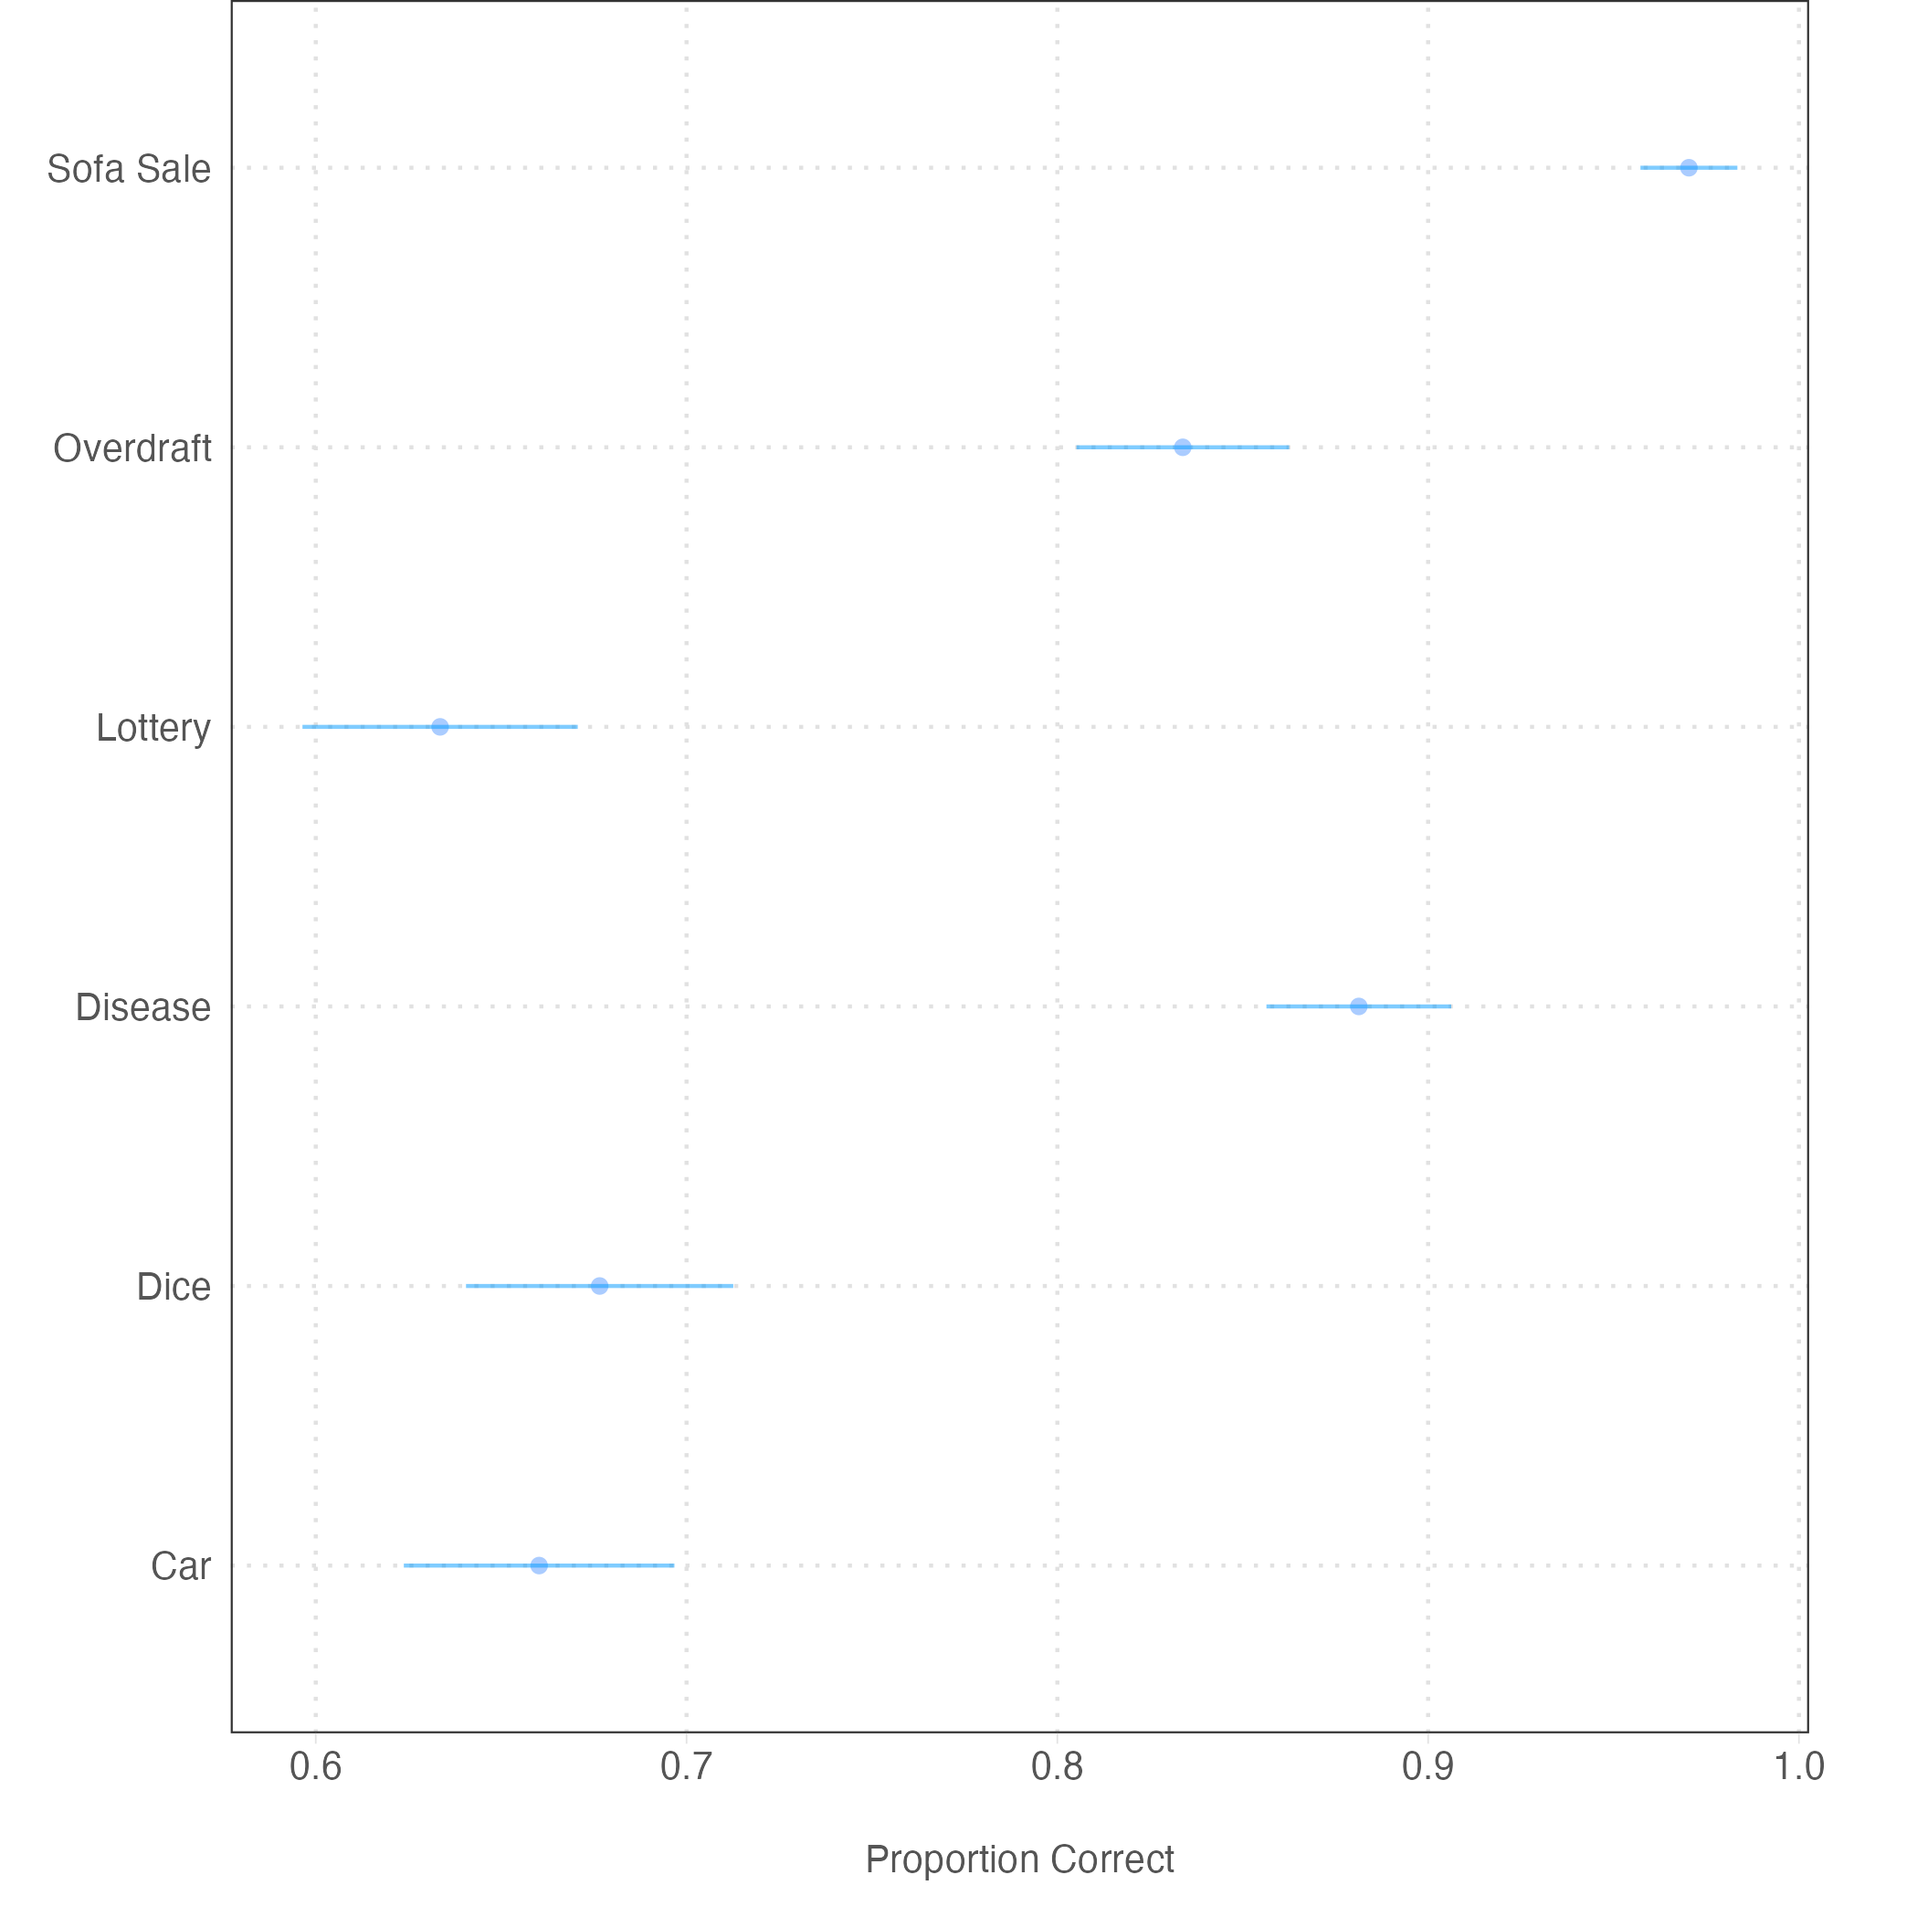
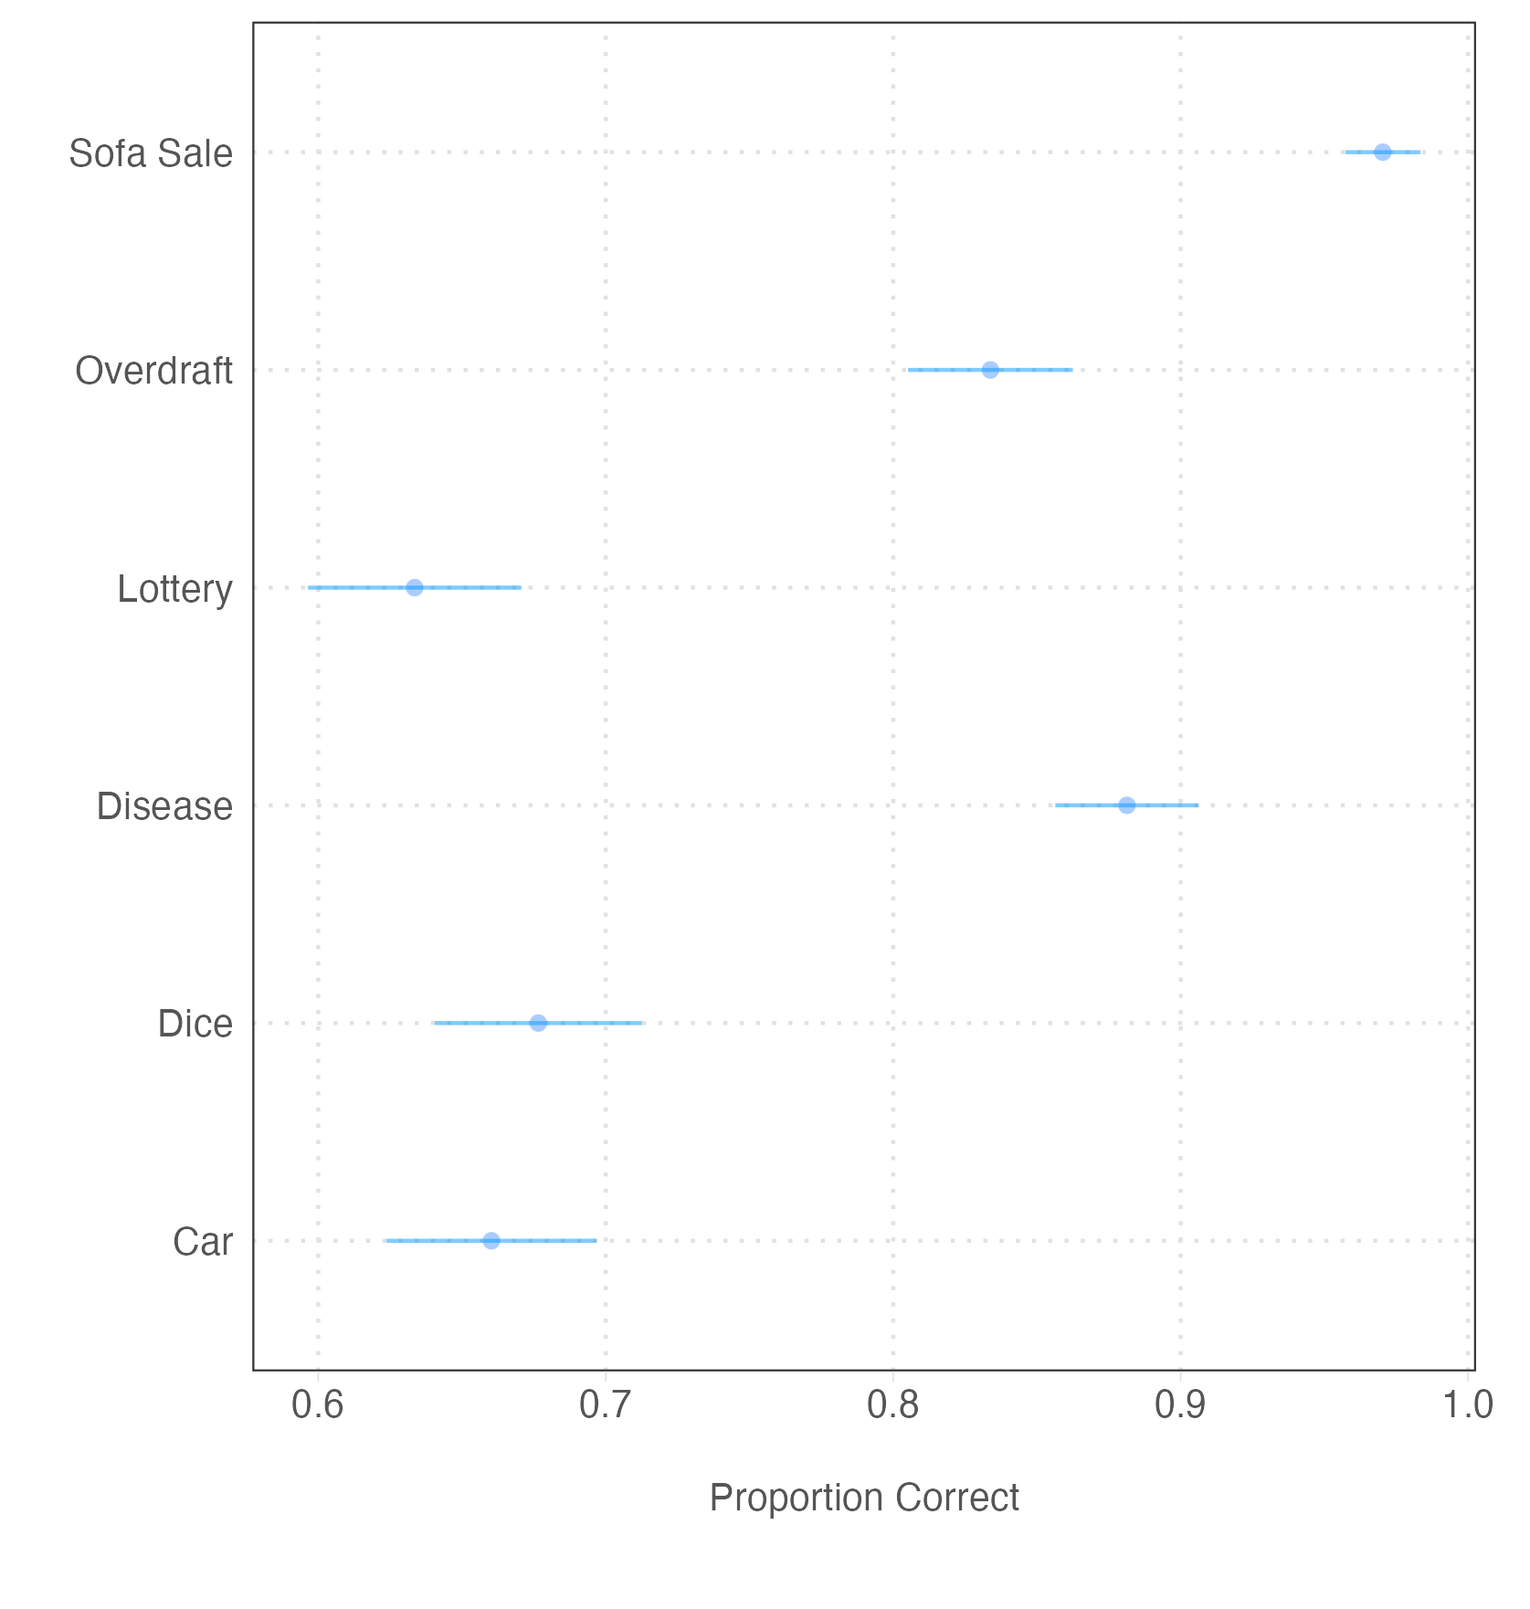
better presentation of lucid results

diff --git a/ms/main.tex b/ms/main.tex
@@ -9,12 +9,12 @@
 \PassOptionsToPackage{naturalnames}{hyperref}
 \usepackage[margin=1in]{geometry}
 \usepackage[linkcolor=blue,
-			colorlinks=true,
-			urlcolor=blue,
-			pdfstartview={XYZ null null 1.00},
-			pdfpagemode=UseNone,
-			citecolor={bluish},
-			pdftitle={social proof}]{hyperref}
+            colorlinks=true,
+            urlcolor=blue,
+            pdfstartview={XYZ null null 1.00},
+            pdfpagemode=UseNone,
+            citecolor={bluish},
+            pdftitle={social proof}]{hyperref}
 
 %\newcites{SI}{SI References}
 \usepackage{natbib}
@@ -106,23 +106,34 @@
 
 \thispagestyle{empty}
 \begin{abstract}
-\noindent In a seminal article in the Quarterly Journal of Economics, \cite{gneezy2006uncertainty} (GLW) report the discovery of the uncertainty effect. In a series of experiments, they find that people are averse to picking the uncertain option even when the certain choice is worse than the worst possible outcome of the uncertain option. We successfully replicate the main finding with two larger, more representative surveys. But our data also suggest three qualifiers: 1. Adding clarifying text about the worst case to the uncertain option closes the gap, 2. Numeracy strongly predicts who chooses the worse option, 3. Providing bonus flips the sign of the effect.
+\noindent In a seminal article in the \textit{Quarterly Journal of Economics}, \cite{gneezy2006uncertainty} (GLW) report the discovery of the uncertainty effect. In a series of experiments, they find that people are averse to picking the uncertain option even when the certain choice is worse than the worst possible outcome of the uncertain option. We successfully replicate the main finding with two larger, more representative surveys. But our data also suggest three qualifiers: 1. Adding clarifying text about the worst case to the uncertain option closes the gap, 2. Numeracy strongly predicts who chooses the worse option, 3. Providing bonus flips the sign of the effect.
 \end{abstract} 
 \clearpage
 \setcounter{page}{1}
 \doublespace
 
-\section*{Replication}
-\subsection*{Results}
+\section*{Experiment 1}
 
-Figure 1 presents the results. In the baseline condition, just 36.5\% of participants opt for the \$25 in cash over the \$50 Amazon gift card. Rationally, then, we should expect to see a smaller percentage taking the cash in the lottery conditions, as the lottery is worth more than \$50 in Amazon money. But we observe a different pattern. First, a full 61.5\% opt for the cash over the lottery in the ``original lottery'' condition—consistent with Gneezy, List, and Wu (2006), we find that the lottery worth \$75 in Amazon money, and guaranteed to pay out at least \$50 in Amazon money, is less popular than \$50 in Amazon money for sure. 
+Our experiment has four treatment arms. The first two replicate the treatment arms in one of the experiments in GLW. In the first condition, we asked respondents if they would prefer \$25 in cash or a \$50 Amazon gift card. We call it the \textbf{Certain Choice} condition. We compare this to a second \textbf{Uncertain Choice} condition in which respondents were asked whether they would prefer \$25 in cash or a lottery in which they had a 50\% chance of winning a \$50 Amazon gift card and a 50\% chance of winning a \$100 Amazon gift card. Since the expected value of this lottery is \$75 in Amazon money, the rational expectation is that more participants will take the Amazon money in this condition. However, \cite{gneezy2006uncertainty} suggest that people will take the cash at a higher rate in the lottery condition, apparently out of aversion to uncertainty.
+
+Our next two conditions probe alternate mechanisms. It is possible that the wording about the lottery is confusing, i.e., perhaps some participants believe the lottery is sequential, i.e., they first have a chance of winning \$50 and then a chance of winning \$100 and, thus, a chance of winning nothing at all. To preclude this reasoning, we introduced a third condition in which participants chose between \$25 in cash or the lottery in the second condition, but with a clarification attached to the lottery: ``To be clear, you are guaranteed to get at least a \$50 gift card.'' If participants are truly averse to uncertainty, we should see similar (and relatively small, compared to the baseline) proportions opting for the lottery in both the \textbf{Uncertain Choice} and \textbf{Clarifying Uncertain Choice} conditions. But if confusion about the lottery explains any of the irrational choices in the \textbf{Uncertain Choice} condition, we should see higher proportions opting for the lottery in the \textbf{Clarifying Uncertain Choice} condition.
+
+Lastly, based on the idea (spoken about by GLW) that comparison across units maybe what is an essential condition for the effect to hold, we offered a \textbf{Direct Comparison} condition that asked respondents to choose between a \$50 Amazon gift card and the regular lottery. Unlike other arms that offer a lottery, this experimental arm has a certain choice that is more commensurate to the second option in \textbf{Certain Choice} than the first. It also makes inference hard. It could be that fewer respondents choose the lottery because the trade-off is harder or it could be that more respondents choose the lottery as the comparison is clearer. Because of these inferential issues, we exclude this condition.
+
+Figure \ref{fig:exp_1_lucid} presents the results. In the \textbf{Certain Choice} condition, just 36.5\% of the participants opt for the \$25 in cash over the \$50 Amazon gift card. Rationally, then, we should expect to see a smaller percentage taking the cash in the lottery conditions, as the lottery is worth more than \$50 in Amazon money. But we observe a different pattern. First, a full 61.5\% opt for the cash over the lottery in the original \textbf{Uncertain Choice} condition. Consistent with \citet{gneezy2006uncertainty}, we find that the lottery worth \$75 in Amazon money, and guaranteed to pay out at least \$50 in Amazon money, is less popular than \$50 in Amazon money for sure.
+
+\begin{figure}[h]
+    \centering
+    \includegraphics{figs/lucid_exp.pdf}
+    \caption{Proportion Choosing Certain Choice in Each of the Treatment Conditions}
+    \label{fig:exp_1_lucid}
+\end{figure}
+
+As noted above, this could be due to confusion over how the lottery is described. Adding the ``clarification'' causes a dramatic drop in people choosing \$25 in cash. In the \textbf{Clarifying} condition, 44.7\% take the \$25 in cash. Thus, unclear wording surrounding the lottery may explain a significant portion of the uncertainty effect.
+
+\section*{Experiment 2}
 
 
-\section*{Numeracy}
-
-\section*{Bonus}
-
-\section*{Discussion}
 
 \clearpage
 \bibliographystyle{apsr}
@@ -164,12 +175,17 @@ The order of the response options was randomized.
 \subsection{Experimental Conditions}
 
 \begin{itemize}
-    \item Which would you prefer? \$25 in cash, A \$50 Amazon gift card
-    \item Which would you prefer? \$25 in cash, A lottery in which you have a 50\% chance of winning a \$50 Amazon gift card and a 50\% chance of winning a \$100 Amazon gift card.
-    \item Which would you prefer? \$25 in cash, A lottery in which you have a 50\% chance of winning a \$50 Amazon gift card and a 50\% chance of winning a \$100 Amazon gift card. To be clear, you are guaranteed to get at least a \$50 gift card.
-    \item Which would you prefer? A \$50 Amazon gift card, A lottery in which you have a 50\% chance of winning a \$50 Amazon gift card and a 50\% chance of winning a \$100 Amazon gift card.
-    \item What is the average amount (in gift card money) you would win from the following lottery? You have a 50\% chance of winning a \$50 gift card and a 50\% chance of winning a \$100 gift card.
+    \item \textbf{Certain Choice.} Which would you prefer? \$25 in cash, A \$50 Amazon gift card
+    
+    \item \textbf{Uncertain Choice.} Which would you prefer? \$25 in cash, A lottery in which you have a 50\% chance of winning a \$50 Amazon gift card and a 50\% chance of winning a \$100 Amazon gift card.
+    
+    \item \textbf{Uncertain Worst Case Choice.} Which would you prefer? \$25 in cash, A lottery in which you have a 50\% chance of winning a \$50 Amazon gift card and a 50\% chance of winning a \$100 Amazon gift card. To be clear, you are guaranteed to get at least a \$50 gift card.
+
+    \item \textbf{Direct Comparison.} Which would you prefer? \$A \$50 Amazon gift card, A lottery in which you have a 50\% chance of winning a \$50 Amazon gift card and a 50\% chance of winning a \$100 Amazon gift card.
+    
 \end{itemize}
+
+After the \textbf{Uncertain Choice} and the \textbf{Uncertain Worst Case Choice} condition, we asked a follow-up question:  What is the average amount (in gift card money) you would win from the following lottery? You have a 50\% chance of winning a \$50 gift card and a 50\% chance of winning a \$100 gift card.
 
 \section{Survey 2 (Prolific)}
 
@@ -178,7 +194,7 @@ The order of the response options was randomized.
 \subsubsection{Incentivizing Attention}
 On the survey, we will check if people are paying attention. Those paying attention will get an additional bonus payment.
 
-\subssubection{Attention Check}
+\subsubsection{Attention Check}
 People are very busy these days and many do not have time to follow what goes on in the government. We are testing whether people read questions. To show that you've read this much, answer both ``extremely interested'' and ``very interested.'' --- Extremely interested, Very interested,  Moderately interested, Slightly interested, Not at all interested
 
 \subsection{Numeracy Battery}
@@ -221,5 +237,12 @@ Experiment 2 (Bonus)
     \item \textbf{Ask and Choose with Bonus.} What is the lowest amount of money that you would get from a lottery where you have a 50\% chance of winning \$50 and a 50\% chance of winning \$100? You are eligible for the bonus payment. You can pick one of the following options for your bonus .. \$0.25 in cash,  An Amazon gift card whose value we determine by a lottery where a person has a 50\% chance of winning a \$0.50 Amazon gift card and a 50\% chance of winning a \$1 Amazon gift card
 \end{itemize}
 
-\end{document}
+\section{Figures}
 
+\begin{figure}[h]
+    \centering
+    \includegraphics{figs/lucid_numeracy.pdf}
+    \caption{Numeracy}
+    \label{fig:lucid_numeracy}
+\end{figure}
+\end{document}

diff --git a/tabs/lucid_exp1.tex b/tabs/lucid_exp1.tex
@@ -1,5 +1,5 @@
 % latex table generated in R 4.2.2 by xtable 1.8-4 package
-% Mon Jun  5 22:41:23 2023
+% Tue Jun  6 11:39:34 2023
 \begin{table}[ht]
 \centering
 \caption{Means and SEs from Experiment 1} 
@@ -8,10 +8,9 @@
   \hline
 cond & mean(sure\_choice) & se \\ 
   \hline
-clarifying & 0.45 & 0.04 \\ 
-  direct & 0.70 & 0.04 \\ 
-  original\_sure & 0.37 & 0.04 \\ 
-  original\_uncertain & 0.62 & 0.04 \\ 
+Certain choice & 0.37 & 0.04 \\ 
+  Clarifying & 0.45 & 0.04 \\ 
+  Uncertain choice & 0.62 & 0.04 \\ 
    \hline
 \end{tabular}
 \end{table}
